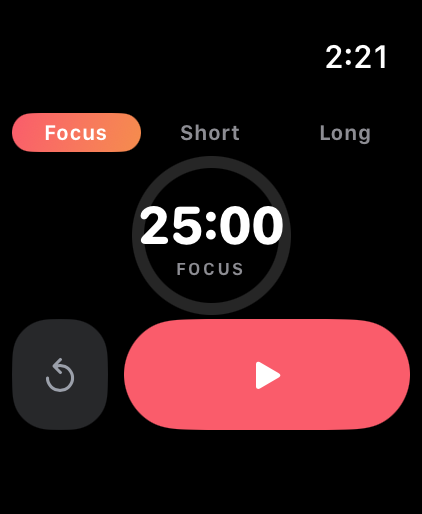
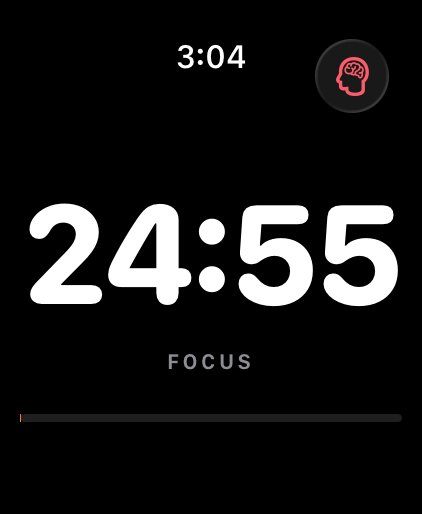
redesign: dead-simple watchOS UI
- Big full-screen countdown; tap anywhere to start/pause (no buttons)
- Session (Focus/Short/Long) moved to a top confirmationDialog menu
  (Menu is unavailable on watchOS)
- Removed the progress ring; slim bottom progress bar instead
- Time tints to the session gradient while running

diff --git a/iOS/PomodoroWatch/WatchTimerView.swift b/iOS/PomodoroWatch/WatchTimerView.swift
@@ -1,80 +1,71 @@
 import SwiftUI
 
-/// Compact watchOS timer: session pills, progress ring, start/pause + reset.
+/// Dead-simple watchOS timer: one big tappable countdown. Tap anywhere to
+/// start/pause. Switch session from the top menu. A slim bar shows progress.
 struct WatchTimerView: View {
     @ObservedObject var timer: PomodoroTimer
     @ObservedObject var settings: PomodoroSettings
+    @State private var pickingSession = false
 
     private var accent: SessionType { timer.session }
 
     var body: some View {
-        VStack(spacing: 5) {
-            sessionPills
-            ring
-            controls
-        }
-        .padding(.horizontal, 4)
-        .padding(.bottom, 2)
-        .containerBackground(accent.accentColor.opacity(0.18).gradient, for: .navigation)
-    }
+        NavigationStack {
+            VStack(spacing: 4) {
+                Spacer(minLength: 0)
 
-    private var sessionPills: some View {
-        HStack(spacing: 3) {
-            ForEach(SessionType.allCases) { session in
-                let selected = session == timer.session
-                Text(session.shortTitle)
-                    .font(.system(size: 11, weight: .semibold))
-                    .lineLimit(1)
-                    .minimumScaleFactor(0.7)
-                    .frame(maxWidth: .infinity)
-                    .padding(.vertical, 3)
-                    .background { if selected { Capsule().fill(session.gradient) } }
-                    .foregroundStyle(selected ? .white : .secondary)
-                    .contentShape(Capsule())
-                    .onTapGesture { timer.select(session) }
-            }
-        }
-    }
-
-    private var ring: some View {
-        ZStack {
-            Circle().stroke(Color.white.opacity(0.15), lineWidth: 6)
-            Circle()
-                .trim(from: 0, to: timer.progress)
-                .stroke(accent.gradient, style: StrokeStyle(lineWidth: 6, lineCap: .round))
-                .rotationEffect(.degrees(-90))
-                .animation(.linear(duration: 0.25), value: timer.progress)
-            VStack(spacing: 0) {
                 Text(timer.formattedRemaining)
-                    .font(.system(size: 28, weight: .bold, design: .rounded))
+                    .font(.system(size: 80, weight: .bold, design: .rounded))
                     .monospacedDigit()
+                    .minimumScaleFactor(0.4)
+                    .lineLimit(1)
+                    .foregroundStyle(timer.isRunning
+                        ? AnyShapeStyle(accent.gradient)
+                        : AnyShapeStyle(Color.primary))
                     .contentTransition(.numericText())
                     .animation(.snappy, value: timer.formattedRemaining)
+
                 Text(timer.session.title.uppercased())
-                    .font(.system(size: 9, weight: .semibold))
-                    .tracking(1)
+                    .font(.system(size: 11, weight: .semibold))
+                    .tracking(1.5)
                     .foregroundStyle(.secondary)
+
+                Spacer(minLength: 0)
+
+                progressBar
+            }
+            .frame(maxWidth: .infinity, maxHeight: .infinity)
+            .padding(.horizontal, 8)
+            .padding(.bottom, 6)
+            .contentShape(Rectangle())
+            .onTapGesture { timer.toggle() }
+            .toolbar {
+                ToolbarItem(placement: .topBarTrailing) {
+                    Button {
+                        pickingSession = true
+                    } label: {
+                        Image(systemName: accent.symbolName)
+                            .foregroundStyle(accent.accentColor)
+                    }
+                }
+            }
+            .confirmationDialog("Session", isPresented: $pickingSession, titleVisibility: .visible) {
+                ForEach(SessionType.allCases) { session in
+                    Button(session.title) { timer.select(session) }
+                }
             }
         }
-        .frame(maxHeight: .infinity)
-        .onTapGesture { timer.toggle() }
     }
 
-    private var controls: some View {
-        HStack(spacing: 8) {
-            Button(action: timer.reset) {
-                Image(systemName: "arrow.counterclockwise")
+    private var progressBar: some View {
+        GeometryReader { geo in
+            ZStack(alignment: .leading) {
+                Capsule().fill(Color.white.opacity(0.12))
+                Capsule().fill(accent.gradient)
+                    .frame(width: geo.size.width * timer.progress)
             }
-            .buttonStyle(.bordered)
-            .tint(.gray)
-            .frame(width: 48)
-
-            Button(action: timer.toggle) {
-                Image(systemName: timer.isRunning ? "pause.fill" : "play.fill")
-                    .frame(maxWidth: .infinity)
-            }
-            .buttonStyle(.borderedProminent)
-            .tint(accent.accentColor)
         }
+        .frame(height: 4)
+        .animation(.linear(duration: 0.25), value: timer.progress)
     }
 }